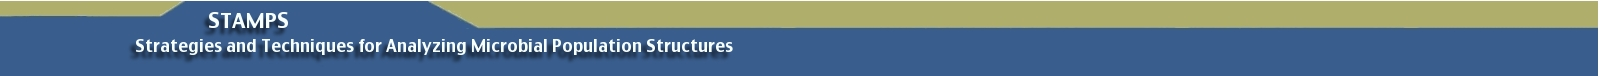
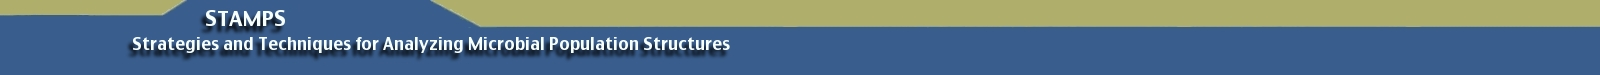
adding link to name in calendar, intermediate

diff --git a/docs/css/stamps_style.css b/docs/css/stamps_style.css
@@ -1,6 +1,8 @@
 body,
 html {
 /*  width: 1600px;*/
+  margin-top: 0px;
+  margin-bottom: 0px;
 	margin-left: auto;
 	margin-right: auto;
   padding: 0;

diff --git a/docs/my_arrays.php b/docs/my_arrays.php
@@ -1,4 +1,24 @@
 <?php 
+$name_links = array(
+	"Mitchell Sogin" => "http://jbpc.mbl.edu/labs-msogin.html",
+	"David Mark Welch" => "http://jbpc.mbl.edu/labs-dmarkwelch.html",
+	"Gary Anderson" => "http://esd.lbl.gov/ESD_staff/andersen/index.html",
+	"John Bunge" => "http://www.stat.cornell.edu/~bunge/",
+	"James Cole" => "http://rdp.cme.msu.edu/index.jsp",
+	"Robert Edgar" => "http://www.drive5.com/more.html",
+	"Jed Fuhrman" => "http://fuhrmanlab.usc.edu/",
+	"Susan Huse" => "http://jbpc.mbl.edu/labs-shuse.html",
+	"Rob Knight" => "University of Colorado at Boulder",
+	"Alice McHardy" => "http://bioinf.mpi-inf.mpg.de/homepage/index.php?&account=mchardy",
+	"Hilary Morrison" => "http://jbpc.mbl.edu/labs-hmorrison.html",
+	"Elmer Prüße" => "Max Planck Institute for Marine Microbiology",
+	"Chris Quince" => "http://userweb.eng.gla.ac.uk/christopher.quince/",
+	"Antonis Rokas" => "http://people.vanderbilt.edu/~antonis.rokas/index.html",
+	"Patrick Schloss" => "http://www.med.umich.edu/microbio/bio/schloss.htm",
+	"Yijun Sun" => "http://plaza.ufl.edu/sunyijun/",
+	"Peter Turnbaugh" => "http://turnbaugh.openwetware.org/"
+);
+
 $description_words = array(
 '2-dimensional', '3-dimensional', 'administered', 'adverse', 'afflicted', 'air', 'aircraft', 'airetite', 'airplane', 'aisles', 'all', 'allowed', 'alright', 'amount', 'animals', 'area', 'associated', 'atmospheric', 'attached', 'available', 'average', 'bacteria', 'bedroom', 'benzene', 'better', 'between', 'building', 'carpet', 'category', 'ceiling', 'cfm', 'chemical', 'cigarettes', 'circulated', 'cleaned', 'cleaning', 'closed', 'coliform', 'collect', 'collected', 'collection', 'commercial', 'compounds', 'concentration', 'construction', 'cooling', 'countertop', 'covered', 'cracks', 'cultivation-based', 'cycle', 'daily', 'day', 'defined', 'defines', 'depending', 'description', 'difference', 'dissolved', 'distance', 'door', 'duration', 'during', 'dust', 'duty', 'each', 'effects', 'efficiency', 'either', 'electric', 'endotoxins', 'energy', 'engine', 'environement', 'environment', 'environmental', 'equipment', 'ergosetrol', 'ether', 'ethylbenzene', 'euclidean', 'exact', 'example', 'experiment', 'exposed', 'expressed', 'extent', 'fan', 'fast', 'fecal', 'fiber', 'field', 'filter', 'flights', 'floor', 'flooring', 'flowing', 'foot', 'formaldehyde', 'fresh', 'from', 'fuel', 'fungal', 'garage', 'gas', 'gasoline', 'gathered', 'general', 'generally', 'grades', 'hard', 'health', 'height', 'heterotrophs', 'highway', 'hour', 'house', 'htm', 'hvac', 'identifier', 'include', 'indoor', 'informative', 'initial', 'insecticide', 'inside', 'installation', 'installment', 'instance', 'intensity', 'interest', 'interval', 'into', 'journeys', 'lamp', 'leaking', 'level', 'light', 'list', 'lit', 'load', 'located', 'location', 'lower', 'lpg', 'luminous', 'many', 'mass', 'material', 'matter', 'maximum', 'means', 'measure', 'measured', 'mechanical', 'metal', 'meters', 'methyl', 'mica', 'microbes', 'mileage', 'million', 'mixed', 'model', 'months', 'more', 'motion', 'moving', 'much', 'multiple', 'nicotine', 'nm', 'no', 'no2', 'no3', 'normally', 'not', 'noticed', 'number', 'o2', 'object', 'occupants', 'occupied', 'occupies', 'occupy', 'occurs', 'often', 'open', 'org', 'organic', 'outdoor', 'outside', 'ozone', 'particle', 'particular', 'particulate', 'parts', 'pass', 'passage', 'passed', 'passenger', 'people', 'percent', 'period', 'person', 'personelle', 'planotx', 'plants', 'plastic', 'plumbing', 'pool', 'power', 'precipitation', 'presence', 'present', 'pressure', 'princeton', 'produced', 'professionals', 'provides', 'rate', 'ratio', 'receptacle', 'released', 'replaced', 'replaces', 'replica', 'room', 'route', 'sample', 'sampling', 'schoolchildren', 'seasonal', 'seat', 'seer', 'setonresourcecenter', 'sf6', 'shortest', 'since', 'single', 'site', 'size', 'smokers', 'solid', 'sound', 'source', 'space', 'specific', 'specify', 'spends', 'spent', 'square', 'stage', 'status', 'stop', 'strategies', 'substance', 'such', 'summer-grade', 'surface', 'system', 'temperature', 'terms', 'tert-butyl', 'test', 'threshold', 'time', 'to', 'total', 'toulene', 'traces', 'transfer', 'traversed', 'treatment', 'true', 'truncated', 'type', 'typical', 'typically', 'ultrafine', 'units', 'use', 'usually', 'vapor', 'vehicle', 'volatile', 'walls', 'water', 'watts', 'whether', 'wikipedia', 'window', 'winter-grade', 'wood', 'workflow', 'www', 'xylene', 'year');
 ?>

diff --git a/docs/stamps_index.php b/docs/stamps_index.php
@@ -13,9 +13,9 @@
 					<p><a href="stamps_calendar.php"> Schedule</a></br> 
 						 Information for students </br> 
 						 Information for faculty
-					</p>
-					
+					</p>	
 				</div>
+				<hr/>
 			</div>
 			<div class="home-text">
 				<p>Deep DNA sequencing using massively-parallel, next-generation technology has enabled nearly comprehensive environmental surveys that can describe the different kinds of microbes in a community and their relative abundance. These descriptions of richness and evenness make possible estimates of microbial diversity, but the size of the required data sets pose enormous computational challenges. The rapidly expanding flow of information from next generation DNA sequencing platforms has fueled healthy debate about best practices for data analysis while at the same time building a user demand for tools that can address important ecological questions. The STAMPS course will promote dialogue and the exchange of ideas between experts in analysis of metagenomic data and offer interdisciplinary bioinformatic and statistical training to practitioners of molecular microbial ecology and genomics.

diff --git a/docs/beginning.php b/docs/beginning.php
@@ -14,13 +14,14 @@
 		<div id="header">
 			<a href="stamps_index.php">
 				<img class="header_top" src="/images/stamps_header_top.jpg" alt="STAMPS Header - Top">
-				<img id="header_bottom" src="/images/jbpc_header_bottom6.jpg" alt="STAMPS Header - Bottom">
+				<img class="header_bottom" src="/images/jbpc_header_bottom6.jpg" alt="STAMPS Header - Bottom">
 				<img class="mbl_logo" src="/images/logo_mbl.png" alt="MBL Logo" height="90">
 				<img class="dna" src="/images/DNA_header_trans.gif" alt="DNA">
 			</a>
 		</div>
 		<!-- <div id="nav">nav</div> -->
 		<?php
+			include("my_functions.php");
 			include("left_menu.php");
 		?>
 		<div id="main-text">

diff --git a/docs/stamps_calendar.php b/docs/stamps_calendar.php
@@ -1,5 +1,4 @@
 <?php
-
 	include("beginning.php");
 	ini_set('display_errors', 1);
 	ini_set('log_errors', 1);
@@ -14,13 +13,12 @@
 
 	$results = $xml->results;
 	
-	// echo '<TABLE WIDTH="90%" BGCOLOR="#CCFFCC" CELLSPACING="1" CELLPADDING="4" BORDER="1">';
-	
 	echo "<table id='res_table'>";
 	// echo "<tr><th>environment</th> <th>section</th> <th>structured comment</th> <th>item</th> <th>units</th> <th>description</th> </tr>";
 	foreach ($results -> row as $row) {
 		echo "<tr>";
 		foreach ($row as $col_n => $col) {
+			$res = add_link($col);
 			echo "<td>$col</td>";
 		}
 		echo "</tr>";
